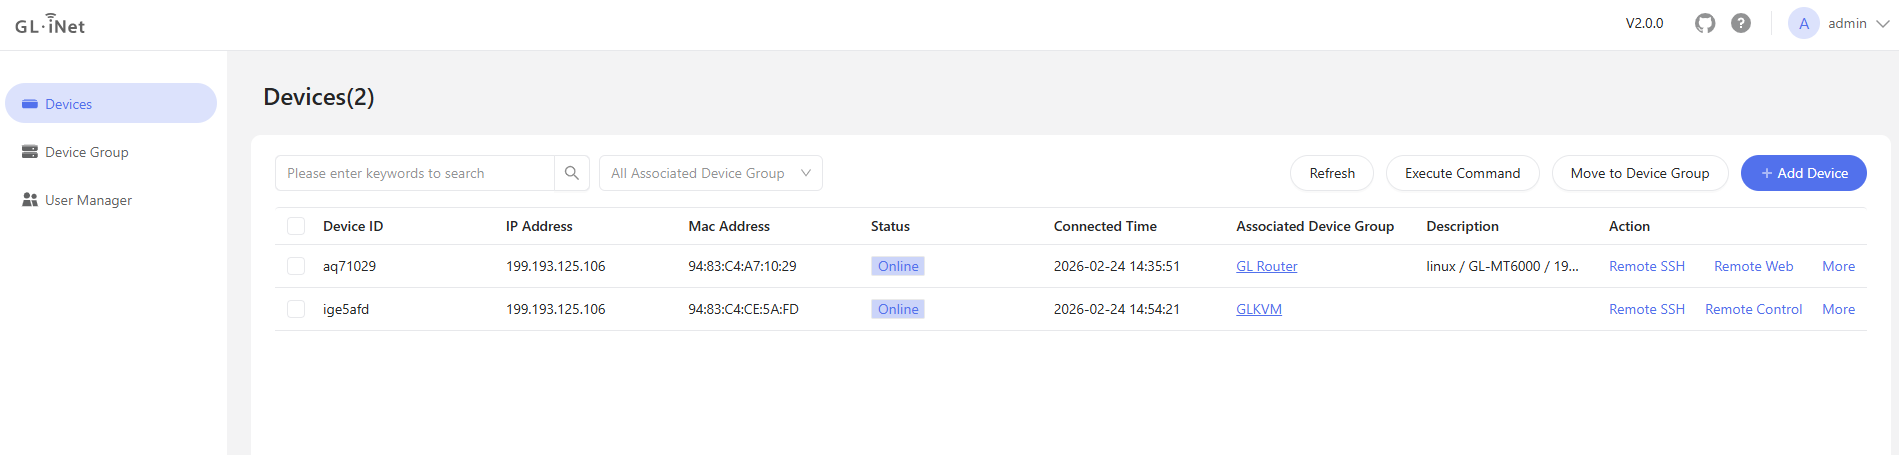
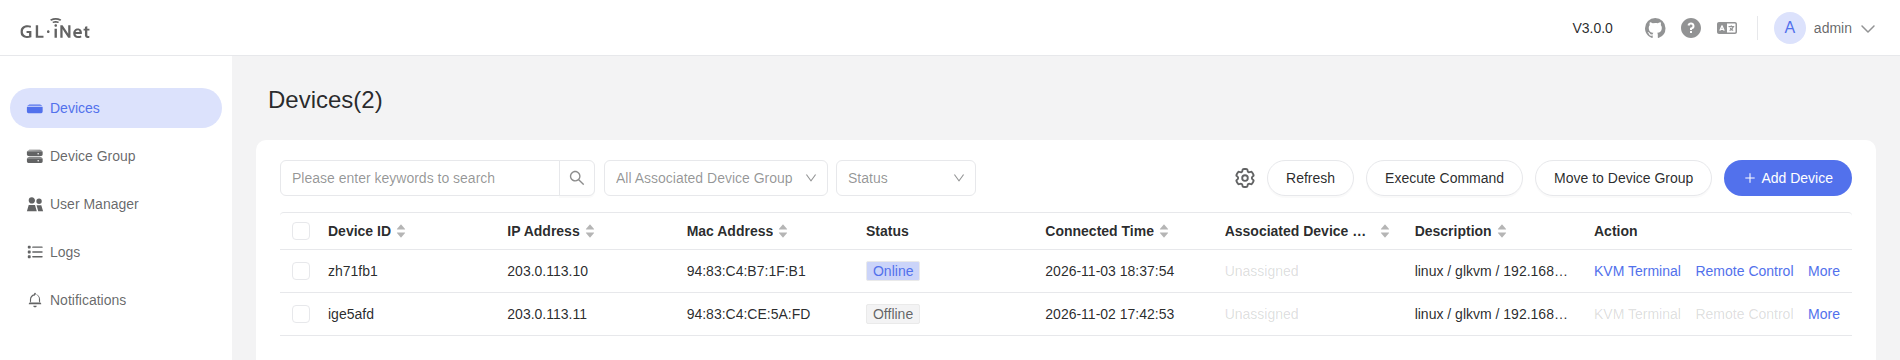
docs: screenshots of the 3.0 device list and add device dialog
The device list still showed 2.0 with Remote SSH. Addresses in both are
example ones.

diff --git a/README.md b/README.md
@@ -141,6 +141,9 @@ Upgrade the deployment files together with the image. Changing only the image ta
 The device needs firmware v1.11.0 or later.
 
 - In the cloud, open **Add Device**, generate an access code and copy it. Each code works once, on any device, within 24 hours.
+
+  ![Add Device](img/adddevice.png)
+
 - On the device's local web UI, open the self-hosted cloud page and paste the access code. The device verifies the cloud with the CA in the code, and the cloud verifies the device with its factory certificate.
 - A device on another self-hosted platform has to disconnect from it on the same page first, then take the new code.
 - Devices connected to the cloud

diff --git a/README.zh-CN.md b/README.zh-CN.md
@@ -142,6 +142,9 @@ https://<你的服务器公网IP>
 设备固件需升级到 v1.11.0 或更高版本。
 
 * 在平台上打开「添加设备」，生成接入码并复制。每个接入码 24 小时内有效，只能使用一次，不限定设备。
+
+  ![添加设备](img/adddevice.png)
+
 * 在设备本地 Web 的自部署云页面粘贴接入码。设备用接入码里的 CA 校验平台，平台用设备的出厂证书校验设备。
 * 设备已接入其他自部署平台时，要先在同一页面断开，再粘贴新的接入码。
 * 设备成功连接到云平台
